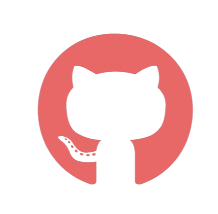
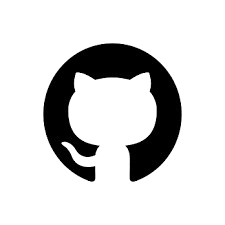
adicionando o botao do git na aba projetos

Changed region(s): [[0.1651, 0.1402, 0.9083, 0.8692]]

diff --git a/src/Home.jsx b/src/Home.jsx
@@ -3,6 +3,8 @@ import { motion, AnimatePresence } from "framer-motion"
 import { Sun, Moon, Github, Linkedin, Phone } from "lucide-react"
 import AOS from "aos"
 import "aos/dist/aos.css"
+import Foto from "./assets/github.png"
+
 
 const projects = [
   {
@@ -58,6 +60,9 @@ const skillCategories = [
 ]
 
 // Social Icons Component
+
+
+
 function SocialIcons() {
   const socialLinks = [
     {
@@ -79,6 +84,7 @@ function SocialIcons() {
       color: "hover:text-[#A12F2F]",
     },
   ]
+  
 
   
 
@@ -376,7 +382,8 @@ export default function Home() {
                 href={projects[currentIndex].codeLink} 
                 className="bg-gray-700 text-white px-4 py-2 rounded-md hover:opacity-75 transition"
               >
-               View Code
+                <div className="flex justify-center items-center"> <img className="h-8" src={Foto} alt="" />View Code</div>
+               
               </a>
               <a 
                 href={projects[currentIndex].demoLink} 
